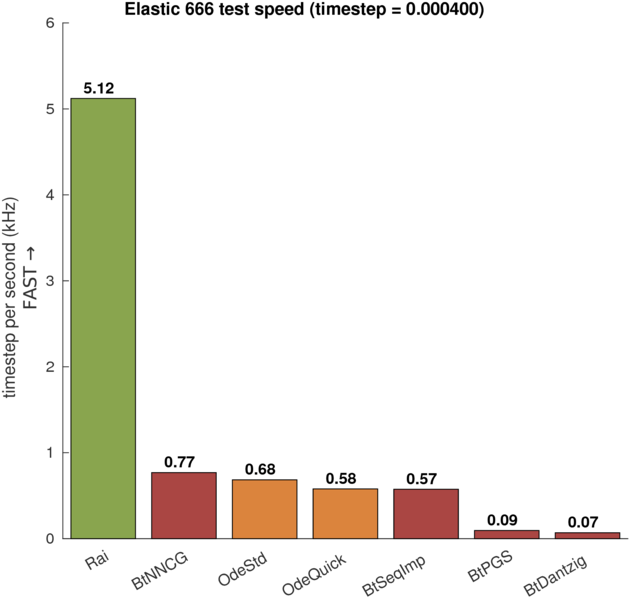
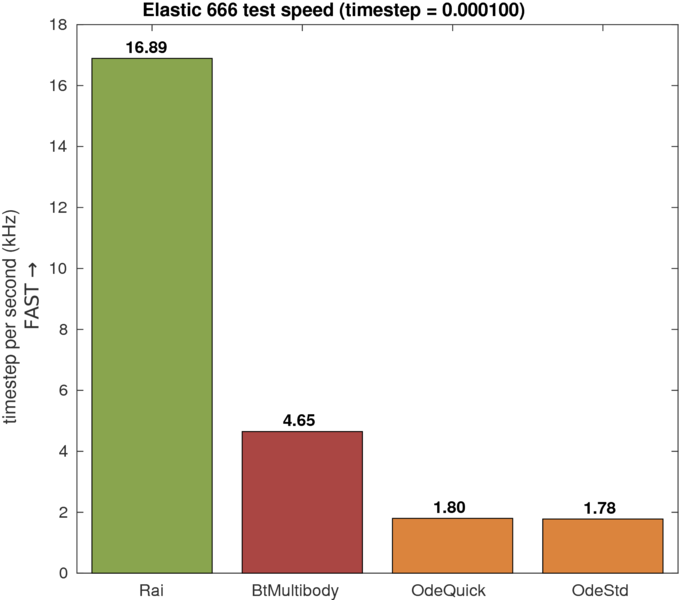
- 666 plot update

Changed region(s): [[0.0, 0.0, 1.0, 1.0]]

diff --git a/etc/matlab/plot-gen/sixsixsix_elastic.m b/etc/matlab/plot-gen/sixsixsix_elastic.m
@@ -5,8 +5,8 @@ format long
 addpath(genpath('../lib/yamlmatlab'))
 
 % data path
-data_dir = '../../../data/666/';
-file_name = 'sample-elastic.csv';
+data_dir = '../../../data/666-elastic/';
+file_name = 'sample.csv';
 
 % yaml path
 yaml_path = '../../../benchmark/yaml/666.yaml';
@@ -26,10 +26,10 @@ disp('===================================================================')
 % const
 yaml_data = yaml.ReadYaml(yaml_path);
 const = yaml_data.constant;
-const.T = 15;       % TODO should be get from somewhere
+const.T = 10;       % TODO should be get from somewhere
 
 % csv format
-formatSpec = '%C%C%C%C%d%d%f%f%f%f';
+formatSpec = '%C%C%C%C%d%d%f%f%f';
 
 T = readtable(...
     strcat(data_dir, file_name), ...
@@ -45,7 +45,6 @@ entry = {...
     'ERP', ...
     'ELASTIC', ...
     'TIMESTEP', ...
-    'PENETRATION', ...
     'ENERGYERROR', ...
     'TIME' ...
     };
@@ -78,19 +77,19 @@ erpY.MUJOCOPGSRK4 = false;
 % error energy plot (only for elastic collision)
 disp('plotting energy error vs real-time-factor...')
 plot_error_speed(T, const, plotSpec, false, '-noerp', '(No ERP)', erpN)
-plot_error_speed(T, const, plotSpec, true, '-erp', '(ERP)', erpY)
+% plot_error_speed(T, const, plotSpec, true, '-erp', '(ERP)', erpY)
 
 %% bar plot (for min dt)
-T2 = T(T.ERP == false & ~isnan(T.ENERGYERROR), :);
-% dt = min(T2.TIMESTEP);
-dt = 0.0004;
+T2 = T(T.ERP == false, :);
+dt = min(T2.TIMESTEP);
+% dt = 0.0004;
 
 simTime = const.T;
 numIter = simTime / dt;
 
 % filtering
 T2 = T2(T2.TIMESTEP == dt, :);
-T2 = sortrows(T2, 10);
+T2 = sortrows(T2, 9);
 
 speed = numIter ./ T2.TIME ./ 1000;
 
@@ -100,6 +99,7 @@ barOption.DARTPGSDART = false;
 
 disp('plotting bar graph')
 h = figure('Name', 'speed', 'Position', [0, 0, 600, 500])
+box on
 hold on
 for i = 1:size(T2, 1)
     data = T2(i, :);
@@ -126,10 +126,9 @@ text(1:length(speed), ...
     'horiz','center', ...
     'FontWeight','bold');
 ylabel(sprintf('timestep per second (kHz) \n FAST →'))
-ylim([0, 6])
-saveas(h, strcat('666-plots/elastic-speed-bar.png'))
-saveas(h, strcat('666-plots/elastic-speed-bar.eps'), 'epsc')
-saveas(h, strcat('666-plots/elastic-speed-bar.fig'), 'fig')
+saveas(h, strcat('666-elastic-plots/elastic-speed-bar.png'))
+saveas(h, strcat('666-elastic-plots/elastic-speed-bar.eps'), 'epsc')
+saveas(h, strcat('666-elastic-plots/elastic-speed-bar.fig'), 'fig')
 
 %%%%%%%%%%%%%%%%%%%%%%%%%%%%%%%%%%%%%%%%%%%%%%%%%%%%%%%%%%%%%%%%%%%%%%%%%%%
 %% functions
@@ -145,7 +144,16 @@ sims = unique(dataTable.SIM);
 
 h = figure('Name','error','Position', [0, 0, 600, 500]);
 hold on
-set(gca, 'YScale', 'log', 'XScale', 'log', 'Ydir', 'reverse')
+box on
+grid on
+set(gca, ...
+    'YScale', 'log', ...
+    'XScale', 'log', ...
+    'Ydir', 'reverse', ...
+    'YMinorTick', 'off', ...
+    'XMinorTick', 'off', ...
+    'YMinorGrid', 'off', ...
+    'XMinorGrid', 'off')
 for i = 1:length(sims)
     
     sim = sims(i);
@@ -174,7 +182,7 @@ for i = 1:length(sims)
             
             % data
             data = Tsimsol(Tsimsol.INTEGRATOR == categorical(integrator), :);
-            data = sortrows(data, 10, 'descend');
+            data = sortrows(data, 7);
             
             % plot
             plotspec = getfield(plotSpec, char(name));
@@ -200,9 +208,9 @@ ylabel(sprintf('squared error (log scale) \n ACCURATE →'))
 % ylim([10^-4 10^9])
 % legend('Location', 'eastoutside');
 legend('Location', 'northeast');
-saveas(h, strcat('666-plots/energy-error-speed', fileName, '.png'))
-saveas(h, strcat('666-plots/energy-error-speed', fileName, '.eps'), 'epsc')
-saveas(h, strcat('666-plots/energy-error-speed', fileName, '.fig'), 'fig')
+saveas(h, strcat('666-elastic-plots/666-elastic-error-speed', fileName, '.png'))
+saveas(h, strcat('666-elastic-plots/666-elastic-error-speed', fileName, '.eps'), 'epsc')
+saveas(h, strcat('666-elastic-plots/666-elastic-error-speed', fileName, '.fig'), 'fig')
 
 end
 

diff --git a/etc/matlab/plot-gen/sixsixsix.m b/etc/matlab/plot-gen/sixsixsix.m
@@ -26,7 +26,7 @@ disp('===================================================================')
 % const 
 yaml_data = yaml.ReadYaml(yaml_path);
 const = yaml_data.constant;
-const.T = 15;       % TODO should be get from somewhere
+const.T = 10;       % TODO should be get from somewhere
 
 % csv format
 formatSpec = '%C%C%C%C%d%d%f%f%f';
@@ -187,7 +187,7 @@ hold off
 title(['Penetration Error ', plotTitle])
 xlabel(sprintf('real time factor \n FAST →'))
 ylabel(sprintf('squared error (log scale) \n ACCURATE →'))
-% xlim([1e-2 10^2.5])
+xlim([10^-3 10^3])
 lgd = legend('Location', 'southwest');
 lgd.NumColumns = 2;
 saveas(h, strcat('666-plots/error-speed', fileName, '.png'))
